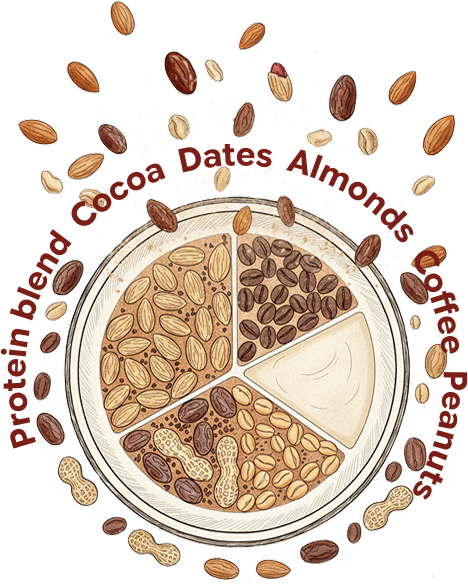
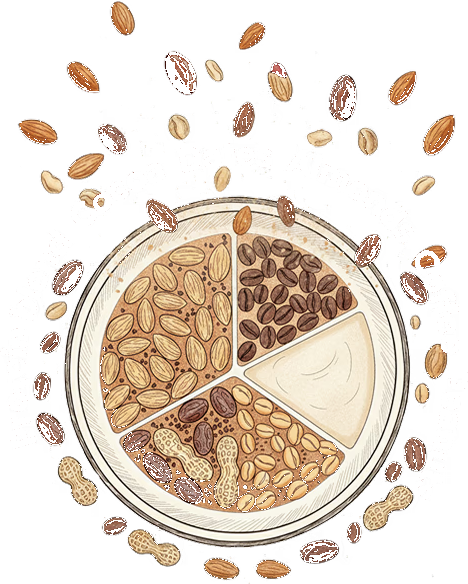
Make ingredient text white on plate and position thought bubble close to bar

diff --git a/app/page.js b/app/page.js
@@ -205,11 +205,11 @@ export default function HomePage() {
                 {isBarOpened && (
                   <div className="ingredients-plate-popup">
                     <img
-                      src="/ingredients_plate.png?v=1"
+                      src="/ingredients_plate.png?v=2"
                       alt="HumblBar Real Ingredients Plate"
                       className="plate-popup-img"
                     />
-                    <span className="plate-close-hint">Tap to close ↩</span>
+                    <span className="plate-close-hint">Tap to close</span>
                   </div>
                 )}
               </div>

diff --git a/app/globals.css b/app/globals.css
@@ -246,12 +246,13 @@ body {
 .hero-thought-bubble {
   width: 140px;
   max-width: 100%;
-  margin-bottom: 4px;
+  margin-bottom: -8px;
   animation: floatCloud 2.8s ease-in-out infinite;
   filter: drop-shadow(0 6px 14px rgba(211, 108, 82, 0.4));
   transition: transform 0.25s cubic-bezier(0.34, 1.56, 0.64, 1);
   display: flex;
   justify-content: center;
+  z-index: 5;
 }
 
 .hero-bar-sticker-large:hover .hero-thought-bubble {
